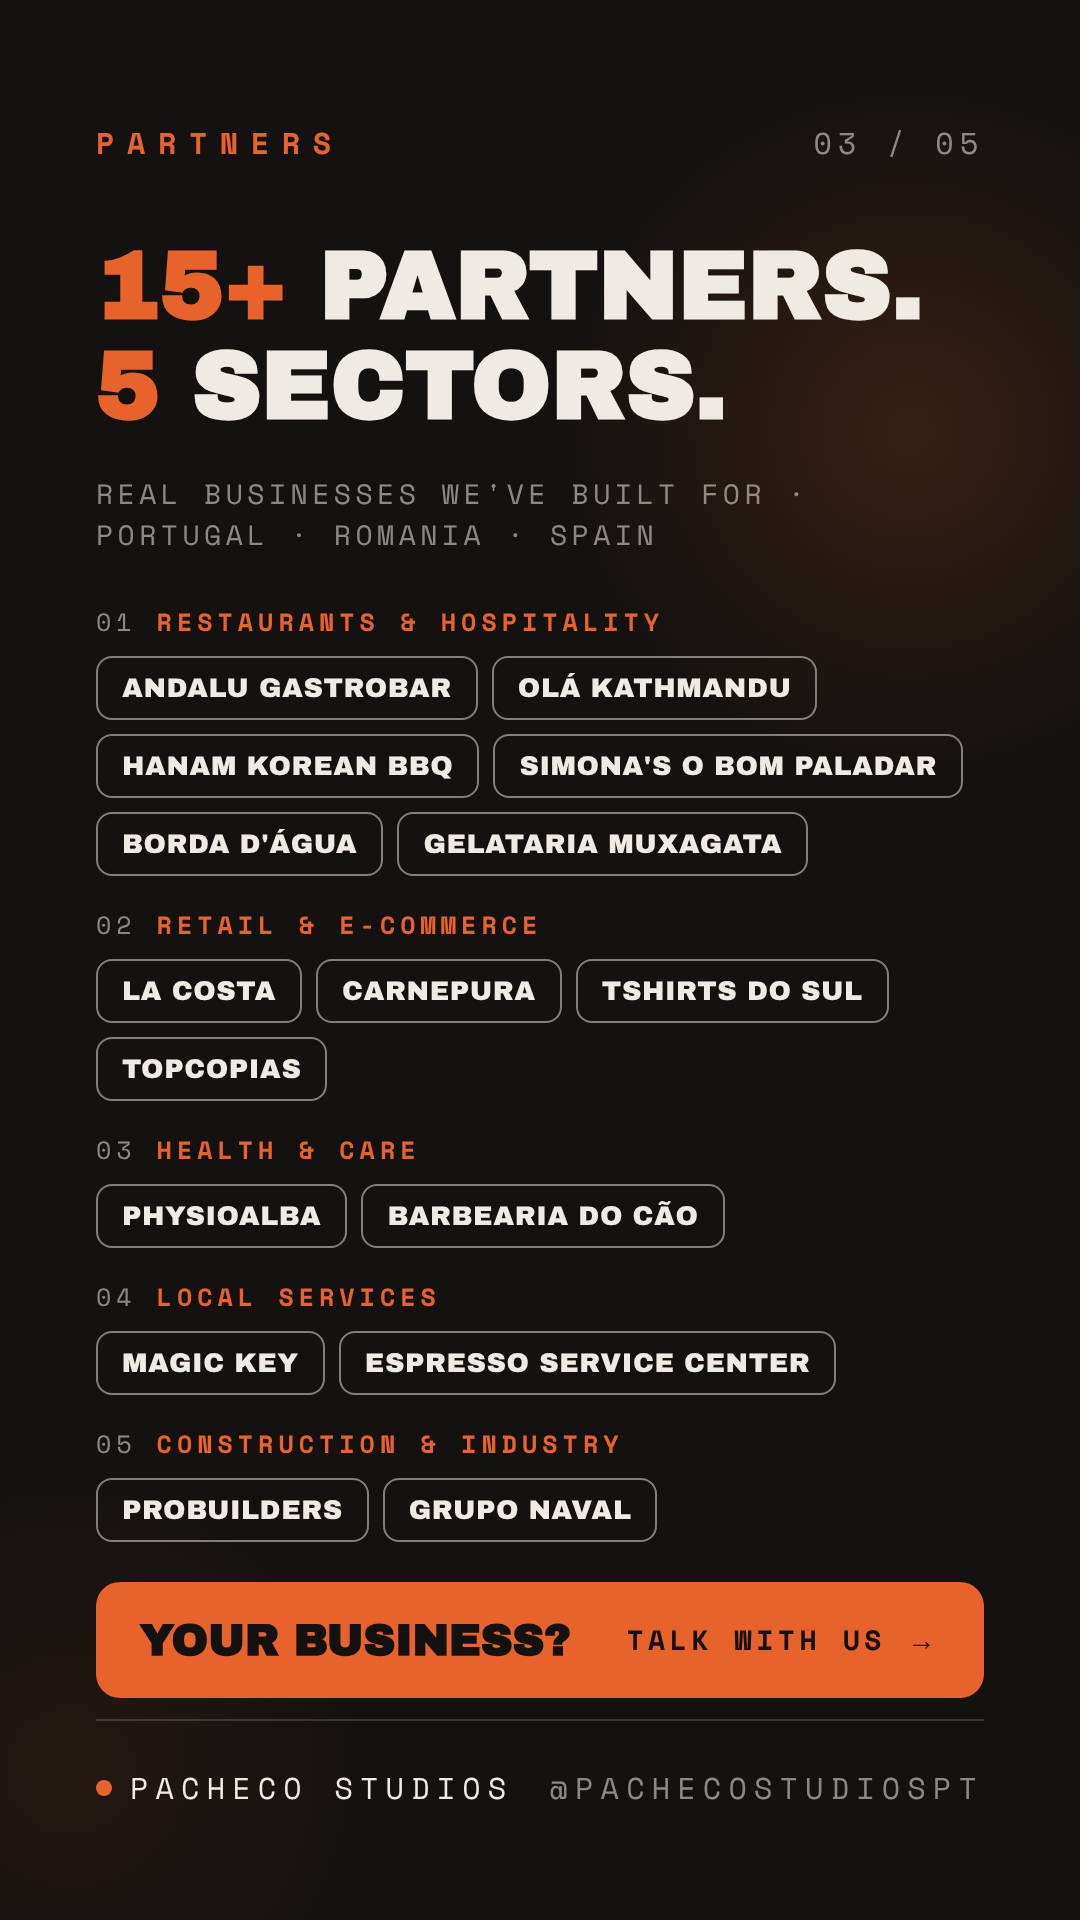
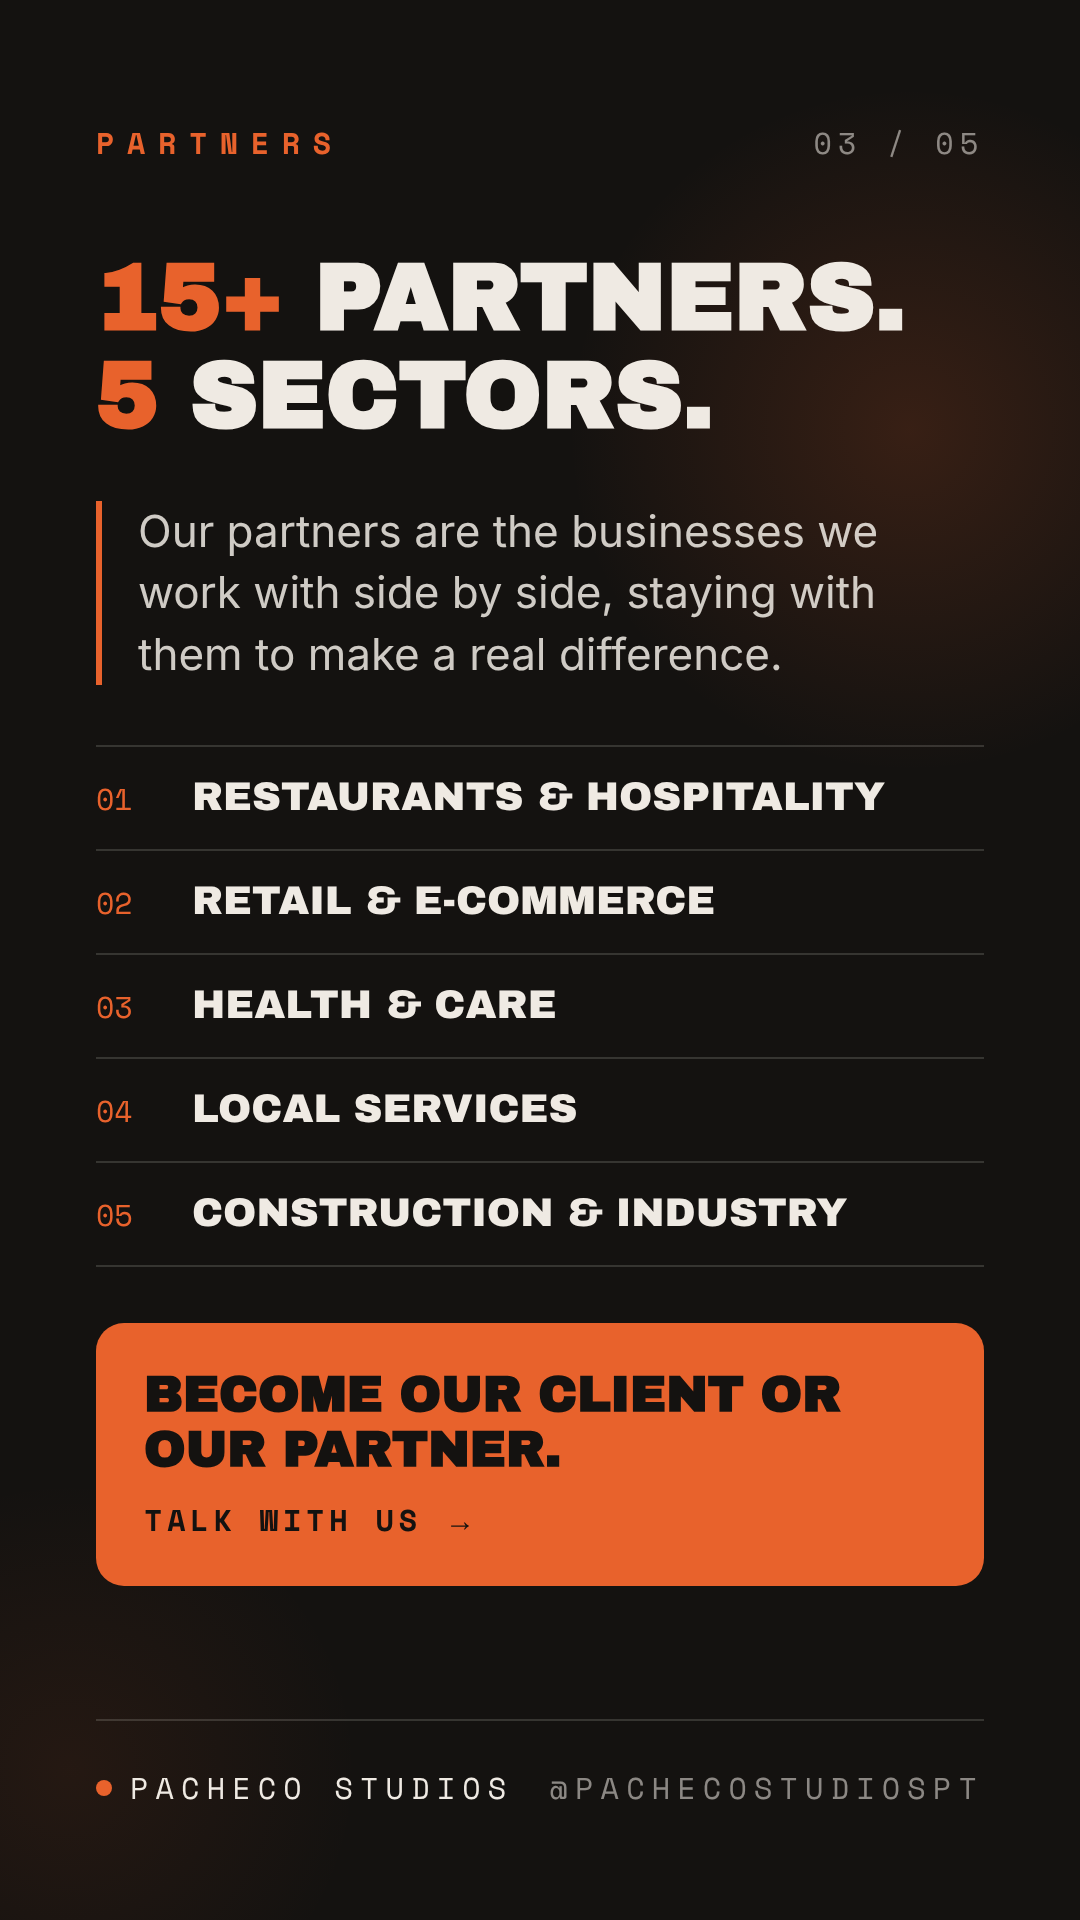
Destaques EN: Partners só com número, setores e frase
Claude-Session: https://claude.ai/code/session_01FsuwmYDfHqravVMwy3uThB

Changed region(s): [[0.0917, 0.125, 0.9167, 0.9062]]

diff --git a/social/destaques-en-2026-10-31/03-partners.html b/social/destaques-en-2026-10-31/03-partners.html
@@ -24,24 +24,23 @@ h1 .o,.o{color:var(--o)}
 .foot .ig{color:var(--dim)}
 .btn{display:inline-flex;align-items:center;gap:18px;background:var(--o);color:#141210;font-family:"Space Mono",monospace;font-weight:700;font-size:34px;letter-spacing:.14em;text-transform:uppercase;border-radius:999px;padding:30px 56px}
 
-h1{font-size:96px;margin-top:72px}
-.stats{margin-top:36px;font-family:"Space Mono";font-size:28px;letter-spacing:.16em;color:var(--dim);text-transform:uppercase}
-.secs{margin-top:48px;display:flex;flex-direction:column;gap:30px}
-.sl{font-family:"Space Mono";font-weight:700;font-size:25px;letter-spacing:.2em;text-transform:uppercase;color:var(--o);display:flex;gap:20px;margin-bottom:16px}
-.sl span{color:var(--dim);font-weight:400}
-.pills{display:flex;flex-wrap:wrap;gap:14px}
-.pill{font-family:"Archivo Black";font-size:27px;letter-spacing:.02em;text-transform:uppercase;border:2px solid rgba(239,234,227,.5);border-radius:16px;padding:15px 24px}
-.you{margin-top:40px;display:flex;justify-content:space-between;align-items:center;background:var(--o);color:#141210;border-radius:24px;padding:34px 44px}
-.you b{font-family:"Archivo Black";font-size:44px;text-transform:uppercase}
-.you span{font-family:"Space Mono";font-weight:700;font-size:28px;letter-spacing:.16em;text-transform:uppercase}
+h1{font-size:94px;margin-top:84px}
+.quote{margin-top:56px;font-size:44px;line-height:1.4;color:rgba(239,234,227,.86);max-width:860px;border-left:6px solid var(--o);padding-left:36px}
+.secs{margin-top:60px;border-top:2px solid var(--line)}
+.sec{display:flex;align-items:baseline;gap:36px;padding:28px 0;border-bottom:2px solid var(--line)}
+.sn{font-family:"Space Mono";font-size:30px;color:var(--o);min-width:60px}
+.st{font-family:"Archivo Black";font-size:40px;text-transform:uppercase}
+.you{margin-top:56px;background:var(--o);color:#141210;border-radius:28px;padding:44px 48px}
+.you b{display:block;font-family:"Archivo Black";font-size:50px;line-height:1.1;text-transform:uppercase}
+.you span{display:block;margin-top:20px;font-family:"Space Mono";font-weight:700;font-size:30px;letter-spacing:.16em;text-transform:uppercase}
 </style></head><body>
 <div class="glow"></div><div class="glow2"></div>
 <div class="frame">
 <div class="top"><span class="tag">PARTNERS</span><span class="num">03&nbsp;/&nbsp;05</span></div>
 
 <h1><span class="o">15+</span> partners.<br><span class="o">5</span> sectors.</h1>
-<div class="stats">Real businesses we've built for · Portugal · Romania · Spain</div>
-<div class="secs"><div class="sec"><div class="sl"><span>01</span>Restaurants &amp; Hospitality</div><div class="pills"><span class="pill">Andalu Gastrobar</span><span class="pill">Olá Kathmandu</span><span class="pill">Hanam Korean BBQ</span><span class="pill">Simona's O Bom Paladar</span><span class="pill">Borda d'Água</span><span class="pill">Gelataria Muxagata</span></div></div><div class="sec"><div class="sl"><span>02</span>Retail &amp; E-commerce</div><div class="pills"><span class="pill">La Costa</span><span class="pill">CarnePura</span><span class="pill">Tshirts do Sul</span><span class="pill">TopCopias</span></div></div><div class="sec"><div class="sl"><span>03</span>Health &amp; Care</div><div class="pills"><span class="pill">PhysioAlba</span><span class="pill">Barbearia do Cão</span></div></div><div class="sec"><div class="sl"><span>04</span>Local Services</div><div class="pills"><span class="pill">Magic Key</span><span class="pill">Espresso Service Center</span></div></div><div class="sec"><div class="sl"><span>05</span>Construction &amp; Industry</div><div class="pills"><span class="pill">ProBuilders</span><span class="pill">Grupo Naval</span></div></div></div>
-<div class="you"><b>Your business?</b><span>Talk with us →</span></div>
+<p class="quote">Our partners are the businesses we work with side by side, staying with them to make a real difference.</p>
+<div class="secs"><div class="sec"><span class="sn">01</span><span class="st">Restaurants &amp; Hospitality</span></div><div class="sec"><span class="sn">02</span><span class="st">Retail &amp; E-commerce</span></div><div class="sec"><span class="sn">03</span><span class="st">Health &amp; Care</span></div><div class="sec"><span class="sn">04</span><span class="st">Local Services</span></div><div class="sec"><span class="sn">05</span><span class="st">Construction &amp; Industry</span></div></div>
+<div class="you"><b>Become our client or our partner.</b><span>Talk with us →</span></div>
 <div class="foot"><span class="brand"><span class="dot"></span>PACHECO STUDIOS</span><span class="ig">@PACHECOSTUDIOSPT</span></div>
 </div></body></html>

diff --git a/social/destaques-en-2026-10-31/build.py b/social/destaques-en-2026-10-31/build.py
@@ -99,35 +99,25 @@ s2 = page("SERVICES", "02", f"""
 <div class="list">{rows}</div>""", foot_right="PACHECOST.COM", extra_css=s2_css)
 
 # ---------- 03 PARTNERS ----------
-# Só clientes/projetos reais (memória do projeto + destaque anterior). Nada inventado.
-sectors = [
-    ("Restaurants &amp; Hospitality", ["Andalu Gastrobar", "Olá Kathmandu", "Hanam Korean BBQ", "Simona's O Bom Paladar", "Borda d'Água", "Gelataria Muxagata"]),
-    ("Retail &amp; E-commerce", ["La Costa", "CarnePura", "Tshirts do Sul", "TopCopias"]),
-    ("Health &amp; Care", ["PhysioAlba", "Barbearia do Cão"]),
-    ("Local Services", ["Magic Key", "Espresso Service Center"]),
-    ("Construction &amp; Industry", ["ProBuilders", "Grupo Naval"]),
-]
-total = sum(len(n) for _, n in sectors)
-blocks = "".join(
-    f"""<div class="sec"><div class="sl"><span>{i:02d}</span>{s}</div><div class="pills">{''.join(f'<span class="pill">{n}</span>' for n in names)}</div></div>"""
-    for i, (s, names) in enumerate(sectors, 1))
+sectors = ["Restaurants &amp; Hospitality", "Retail &amp; E-commerce", "Health &amp; Care", "Local Services", "Construction &amp; Industry"]
+total = 16
+blocks = "".join(f'<div class="sec"><span class="sn">{i:02d}</span><span class="st">{s}</span></div>' for i, s in enumerate(sectors, 1))
 s3_css = """
-h1{font-size:96px;margin-top:72px}
-.stats{margin-top:36px;font-family:"Space Mono";font-size:28px;letter-spacing:.16em;color:var(--dim);text-transform:uppercase}
-.secs{margin-top:48px;display:flex;flex-direction:column;gap:30px}
-.sl{font-family:"Space Mono";font-weight:700;font-size:25px;letter-spacing:.2em;text-transform:uppercase;color:var(--o);display:flex;gap:20px;margin-bottom:16px}
-.sl span{color:var(--dim);font-weight:400}
-.pills{display:flex;flex-wrap:wrap;gap:14px}
-.pill{font-family:"Archivo Black";font-size:27px;letter-spacing:.02em;text-transform:uppercase;border:2px solid rgba(239,234,227,.5);border-radius:16px;padding:15px 24px}
-.you{margin-top:40px;display:flex;justify-content:space-between;align-items:center;background:var(--o);color:#141210;border-radius:24px;padding:34px 44px}
-.you b{font-family:"Archivo Black";font-size:44px;text-transform:uppercase}
-.you span{font-family:"Space Mono";font-weight:700;font-size:28px;letter-spacing:.16em;text-transform:uppercase}
+h1{font-size:94px;margin-top:84px}
+.quote{margin-top:56px;font-size:44px;line-height:1.4;color:rgba(239,234,227,.86);max-width:860px;border-left:6px solid var(--o);padding-left:36px}
+.secs{margin-top:60px;border-top:2px solid var(--line)}
+.sec{display:flex;align-items:baseline;gap:36px;padding:28px 0;border-bottom:2px solid var(--line)}
+.sn{font-family:"Space Mono";font-size:30px;color:var(--o);min-width:60px}
+.st{font-family:"Archivo Black";font-size:40px;text-transform:uppercase}
+.you{margin-top:56px;background:var(--o);color:#141210;border-radius:28px;padding:44px 48px}
+.you b{display:block;font-family:"Archivo Black";font-size:50px;line-height:1.1;text-transform:uppercase}
+.you span{display:block;margin-top:20px;font-family:"Space Mono";font-weight:700;font-size:30px;letter-spacing:.16em;text-transform:uppercase}
 """
 s3 = page("PARTNERS", "03", f"""
 <h1><span class="o">15+</span> partners.<br><span class="o">5</span> sectors.</h1>
-<div class="stats">Real businesses we've built for · Portugal · Romania · Spain</div>
+<p class="quote">Our partners are the businesses we work with side by side, staying with them to make a real difference.</p>
 <div class="secs">{blocks}</div>
-<div class="you"><b>Your business?</b><span>Talk with us →</span></div>""", extra_css=s3_css)
+<div class="you"><b>Become our client or our partner.</b><span>Talk with us →</span></div>""", extra_css=s3_css)
 
 # ---------- 04 DENTAL ----------
 s4_css = """
